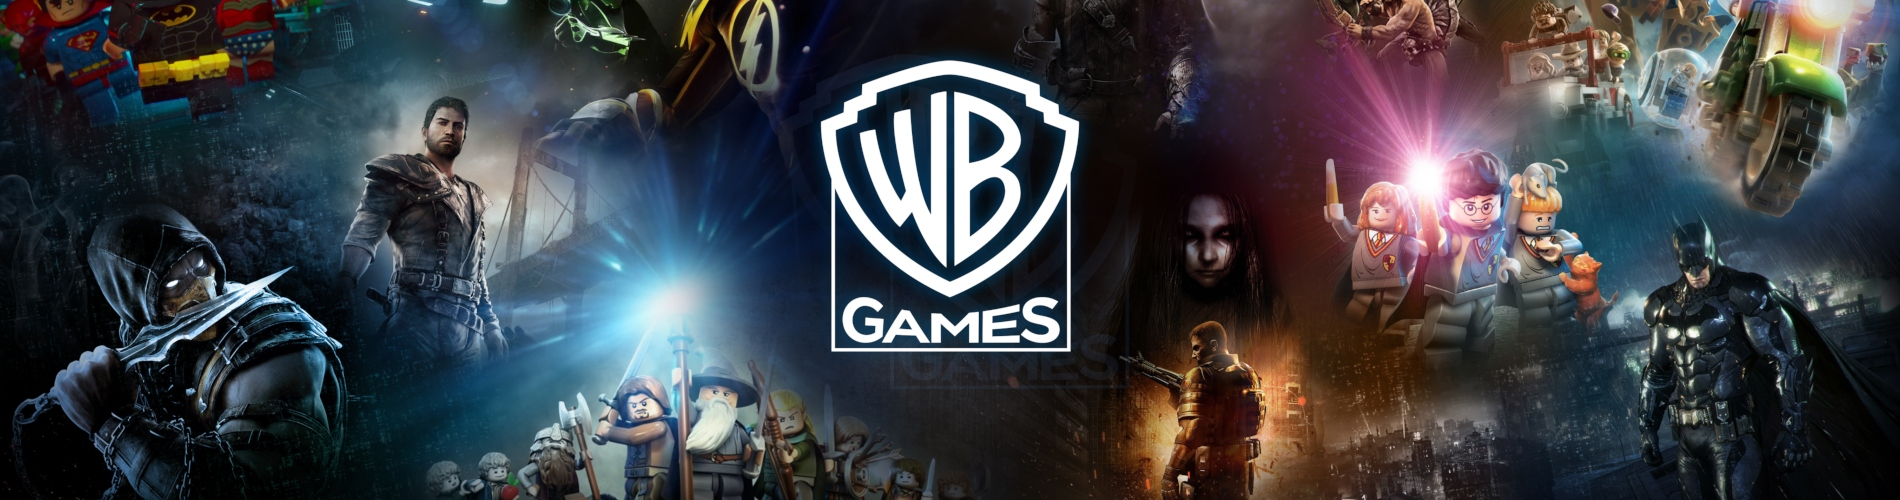
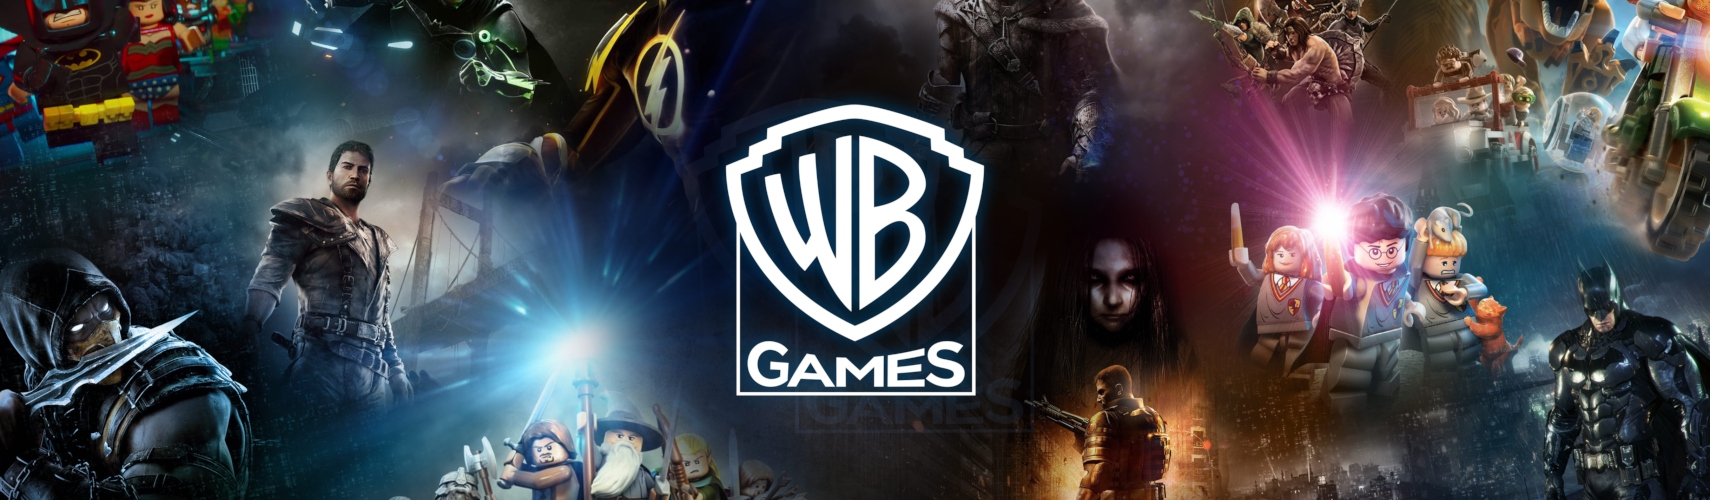
Updated social media links, added apply links to job descriptions, resized header image.

diff --git a/_includes/sections/roles.html b/_includes/sections/roles.html
@@ -44,7 +44,7 @@
             <p> 
                 Job description goes here. Lorem ipsum dolor sit amet, consectetur adipiscing elit. Nullam ac turpis est. Aenean in nunc massa. 
                 Donec ultricies mi vel arcu viverra pharetra eget id urna. Curabitur sit amet nulla vel orci vestibulum dapibus. 
-                Nulla eu vestibulum neque. 
+                Nulla eu vestibulum neque. <a href="/linkgoeshere">Apply.</a>
             </p>
             <div class="graydivider"></div>
             <h2>
@@ -59,7 +59,7 @@
                 Job description goes here. Lorem ipsum dolor sit amet, consectetur adipiscing elit. Nullam ac turpis est. Aenean in nunc massa. 
                 Donec ultricies mi vel arcu viverra pharetra eget id urna. Curabitur sit amet nulla vel orci vestibulum dapibus. 
                 Nulla eu vestibulum neque. Proin et nisl congue, eleifend ante sed, mattis nulla. In hac habitasse platea dictumst. 
-                Integer pellentesque ipsum in rhoncus varius. Phasellus pharetra laoreet justo, in efficitur magna interdum non. 
+                Integer pellentesque ipsum in rhoncus varius. Phasellus pharetra laoreet justo, in efficitur magna interdum non. <a href="/linkgoeshere">Apply.</a>
             </p>
 
             <div style="height: 40px;"></div>
@@ -77,7 +77,7 @@
                 Job description goes here. Lorem ipsum dolor sit amet, consectetur adipiscing elit. Nullam ac turpis est. Aenean in nunc massa. 
                 Donec ultricies mi vel arcu viverra pharetra eget id urna. Curabitur sit amet nulla vel orci vestibulum dapibus. 
                 Nulla eu vestibulum neque. Proin et nisl congue, eleifend ante sed, mattis nulla. In hac habitasse platea dictumst. 
-                Integer pellentesque ipsum in rhoncus varius. Phasellus pharetra laoreet justo, in efficitur magna interdum non. 
+                Integer pellentesque ipsum in rhoncus varius. Phasellus pharetra laoreet justo, in efficitur magna interdum non. <a href="/linkgoeshere">Apply.</a>
             </p>
             <div class="graydivider"></div>
             <h2>
@@ -90,7 +90,7 @@
             </div>
             <p> 
                 Job description goes here. Lorem ipsum dolor sit amet, consectetur adipiscing elit. Nullam ac turpis est. Aenean in nunc massa. 
-                Donec ultricies mi vel arcu viverra pharetra eget id urna.  
+                Donec ultricies mi vel arcu viverra pharetra eget id urna. <a href="/linkgoeshere">Apply.</a>
             </p>
             <div class="graydivider"></div>
             <h2>
@@ -103,7 +103,7 @@
             </div>
             <p> 
                 Job description goes here. Lorem ipsum dolor sit amet, consectetur adipiscing elit. Nullam ac turpis est. Aenean in nunc massa. 
-                Donec ultricies mi vel arcu viverra pharetra eget id urna. Curabitur sit amet nulla vel orci vestibulum dapibus.
+                Donec ultricies mi vel arcu viverra pharetra eget id urna. Curabitur sit amet nulla vel orci vestibulum dapibus. <a href="/linkgoeshere">Apply.</a>
             </p>
 
             <div style="height: 40px;"></div>
@@ -120,7 +120,7 @@
             <p> 
                 Job description goes here. Lorem ipsum dolor sit amet, consectetur adipiscing elit. Nullam ac turpis est. Aenean in nunc massa. 
                 Donec ultricies mi vel arcu viverra pharetra eget id urna. Curabitur sit amet nulla vel orci vestibulum dapibus. 
-                Nulla eu vestibulum neque. 
+                Nulla eu vestibulum neque. <a href="/linkgoeshere">Apply.</a>
             </p>
 
             <div style="height: 60px;"></div>

diff --git a/_includes/sections/about.html b/_includes/sections/about.html
@@ -38,10 +38,6 @@
                     {% if site.author.email %}
                     <li><a href="mailto:{{ site.author.email }}"><i class="fa fa-envelope-o"></i></a></li>
                     {% endif %}
-                    <li><a href="{{ site.baseurl }}/feed.xml" target="blank"><i class="fa fa-rss"></i></a></li>
-                    {% if site.author.cv %}
-                    <li><a href="{{ site.author.cv }}" target="blank"><i class="fa fa-file-pdf-o"></i></a></li>
-                    {% endif %}
                 </ul>
             </div>
         </div>

diff --git a/_sass/_style.scss b/_sass/_style.scss
@@ -2212,6 +2212,7 @@ body {
     .navbar {
       padding-right: 15px;
       padding-left: 15px;
+      border-bottom: 1px solid #e7eaec;
     }
   }
   .navbar-default {
